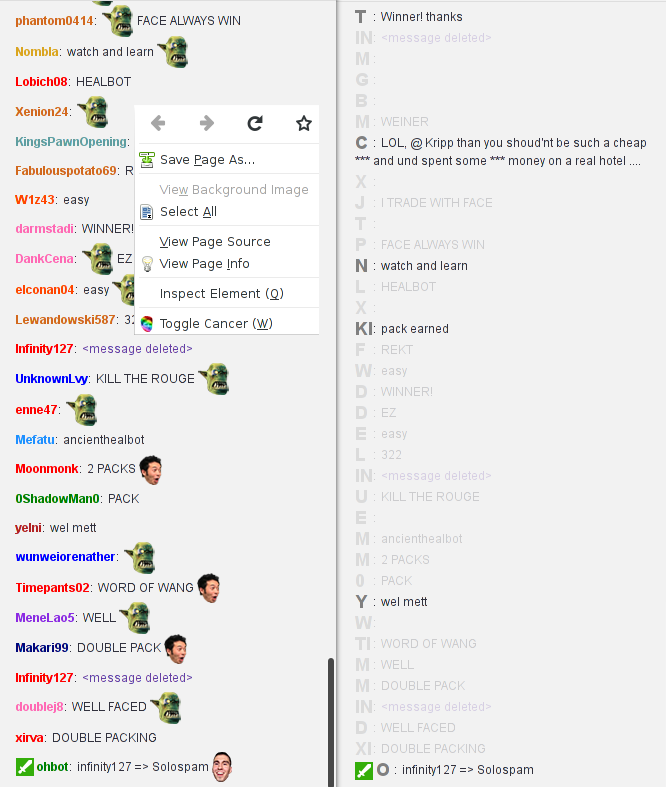
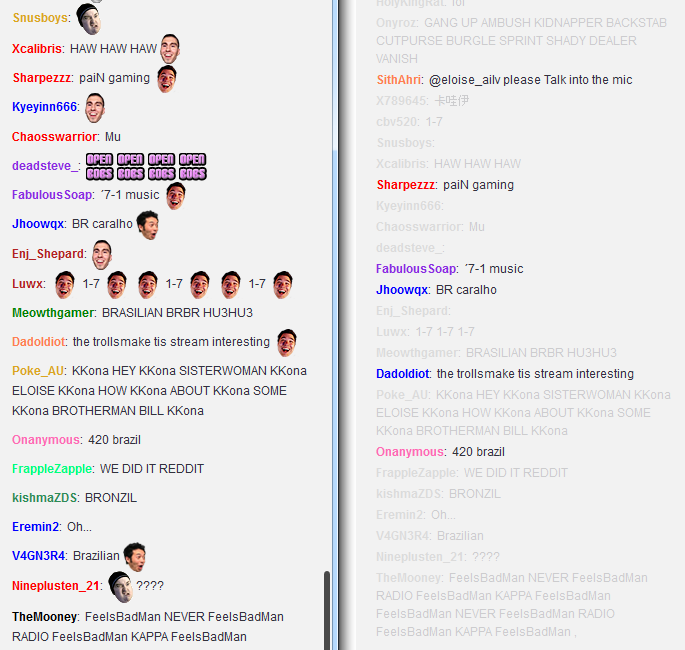
1.0.2: don't alter CSS on sane messages

diff --git a/CHANGELOG.md b/CHANGELOG.md
@@ -1,3 +1,12 @@
+# WorseTTV 1.0.2 (2015/09/07)
+  - [new] Do a minimum of styling and don't alter valid messages at all
+
+# WorseTTV 1.0.1 (2015/08/07)
+  - [dev] Don't minify to ease review and because we can live without it.
+
+# WorseTTV 1.0.0 (2015/08/06)
+  - [new] First public release, upload to AMO.
+
 # WorseTTV 0.3.0 (2015/08/06)
   - [new] Renamed to Twitch No Cancerino.
   - [new] Diagnose cancer for plebs only, subs/mods/etc are healthy (or are they?).
